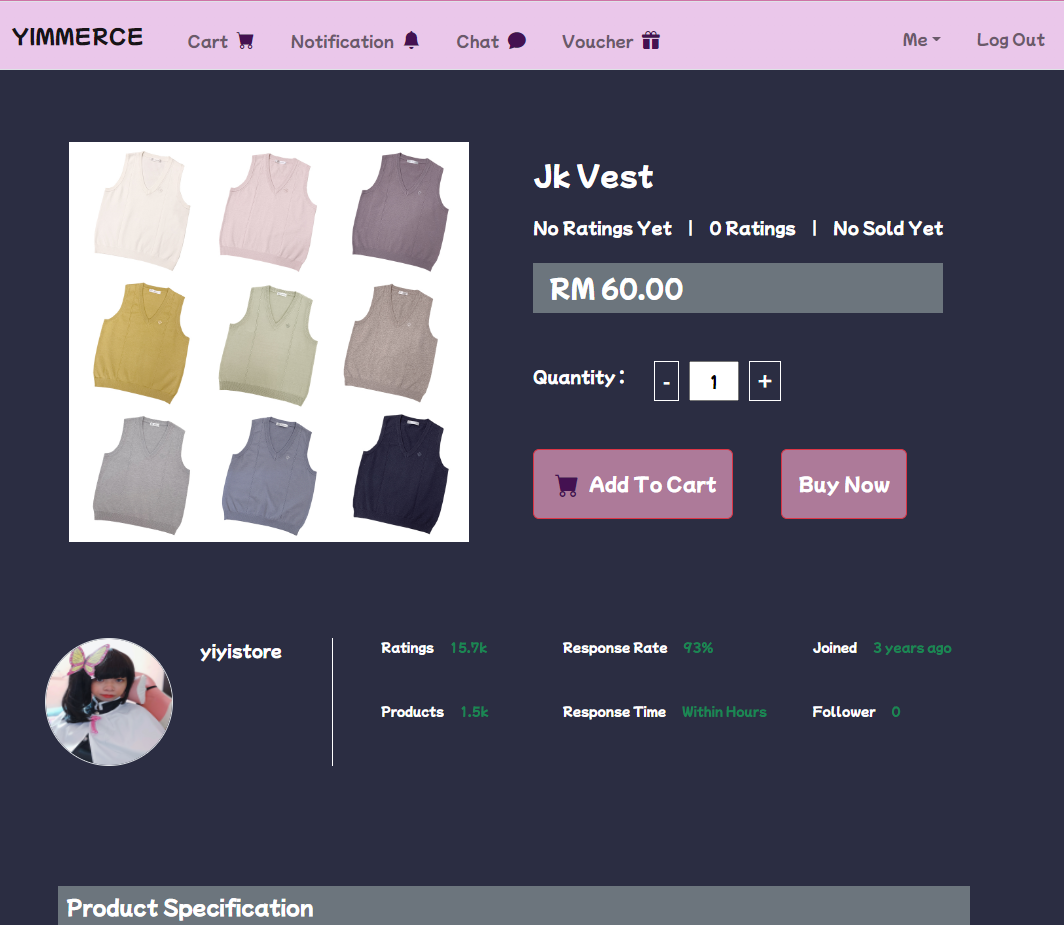
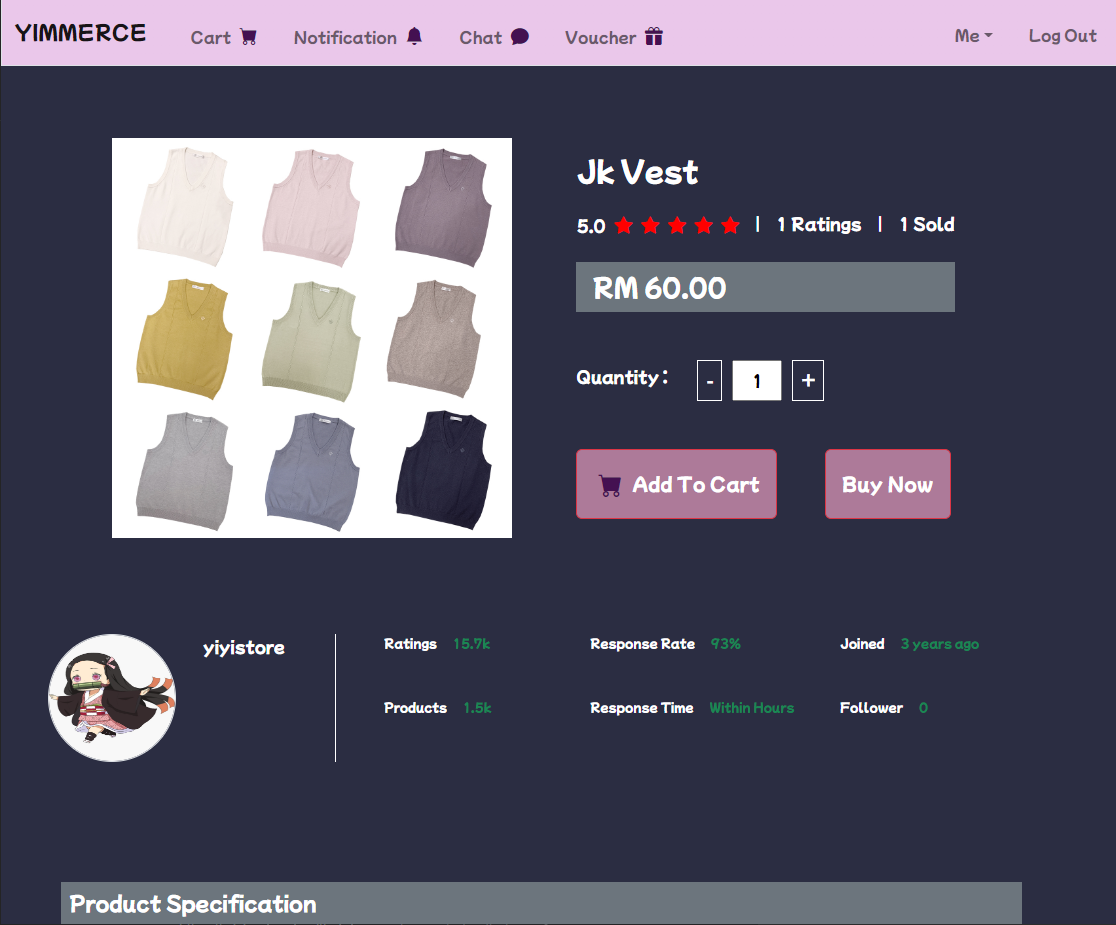
markdown update

diff --git a/templates/users/product.html b/templates/users/product.html
@@ -95,7 +95,7 @@
 
         <div class="d-flex gap-3" style="padding-right:50px;border-right:1px solid white;">
             <div style="width:150px;">
-                <img src="../../static/pic/1638157275081.jpg" style="width:8rem;height:8rem;"
+                <img src="../../static/pic/seller.jpg" style="width:8rem;height:8rem;"
                      class="border rounded-circle">
             </div>
 
@@ -186,10 +186,6 @@
         <div class="d-flex flex-wrap gap-5">
             {% for rating in ratings %}
                 <div class="d-flex gap-3 border-bottom" style="margin-left:50px;padding-bottom: 1rem;width:90%">
-                    <div style="width:100px;text-align: left">
-                        <img src="../../static/pic/1638157275081.jpg" style="width:6rem;height:6rem;"
-                             class="border rounded-circle">
-                    </div>
 
                     <div class="d-flex">
                         <div style="text-align: left">

diff --git a/readme.md b/readme.md
@@ -51,66 +51,67 @@ payment gateway, it's sorely made for this project virtually only.
 
 ![](mdpic/users/user_product.png)
 
-5. Cart
+5. Ratings in Product Page
+
+![](mdpic/users/user_product_ratings.png)
+
+6. Cart
 
 ![](mdpic/users/user_cart.png)
 
-6. Payment Page
+7. Payment Page
 
 ![](mdpic/users/user_payment.png)
 
-7. Purchase History
+8. Purchase History
 
 ![](mdpic/users/user_purchase.png)
 
-8. Notification Page
+9. Notification Page
 
 ![](mdpic/users/user_notification.png)
 
-
-9. Chat
+10. Chat
 
 ![](mdpic/users/user_chat.png)
 
-10. Claim Voucher Page
+11. Claim Voucher Page
 
 ![](mdpic/users/user_claim_voucher.png)
 
-11. Rate Product by Bootstrap Modal
+12. Rate Product by Bootstrap Modal
 
 ![](mdpic/users/user_rate.png)
 
-12. Check Previous Ratings
+13. Check Previous Ratings
 
 ![](mdpic/users/user_ratings.png)
 
-13. Wallet
+14. Wallet
 
 ![](mdpic/users/user_wallet.png)
 
----
-
-14. Deposit & Withdraw
+15. Deposit & Withdraw
 
 ![](mdpic/users/user_deposit_withdraw.png)
 
-15. Check redeemed voucher
+16. Check redeemed voucher
 
 ![](mdpic/users/user_redeemed_vouchers.png)
 
-16. Personal Details
+17. Personal Details
 
 ![](mdpic/users/user_personal_details.png)
 
-17. Edit Personal Details
+18. Edit Personal Details
 
 ![](mdpic/users/user_edit_personal_details.png)
 
-18. Change Password
+19. Change Password
 
 ![](mdpic/users/user_change_password.png)
 
-19. Navbar
+20. Navbar
 
 ![](mdpic/users/user_navbar.png)
 
@@ -174,6 +175,9 @@ experience. On the voucher page, seller can make a new voucher.
 11. Update Shipment Status (at main page)
 ![](./mdpic/admin/admin_update_shipment.png)
 
+12. Navbar
+![](./mdpic/admin/admin_navbar.png)
+
 ---
 
 #### Validation
@@ -204,4 +208,4 @@ and getting inaccurate data.
 
 
 #### Entity Relationship Diagram (ERD)
-![](./erd.jpg)
+![](mdpic/erd.jpg)
